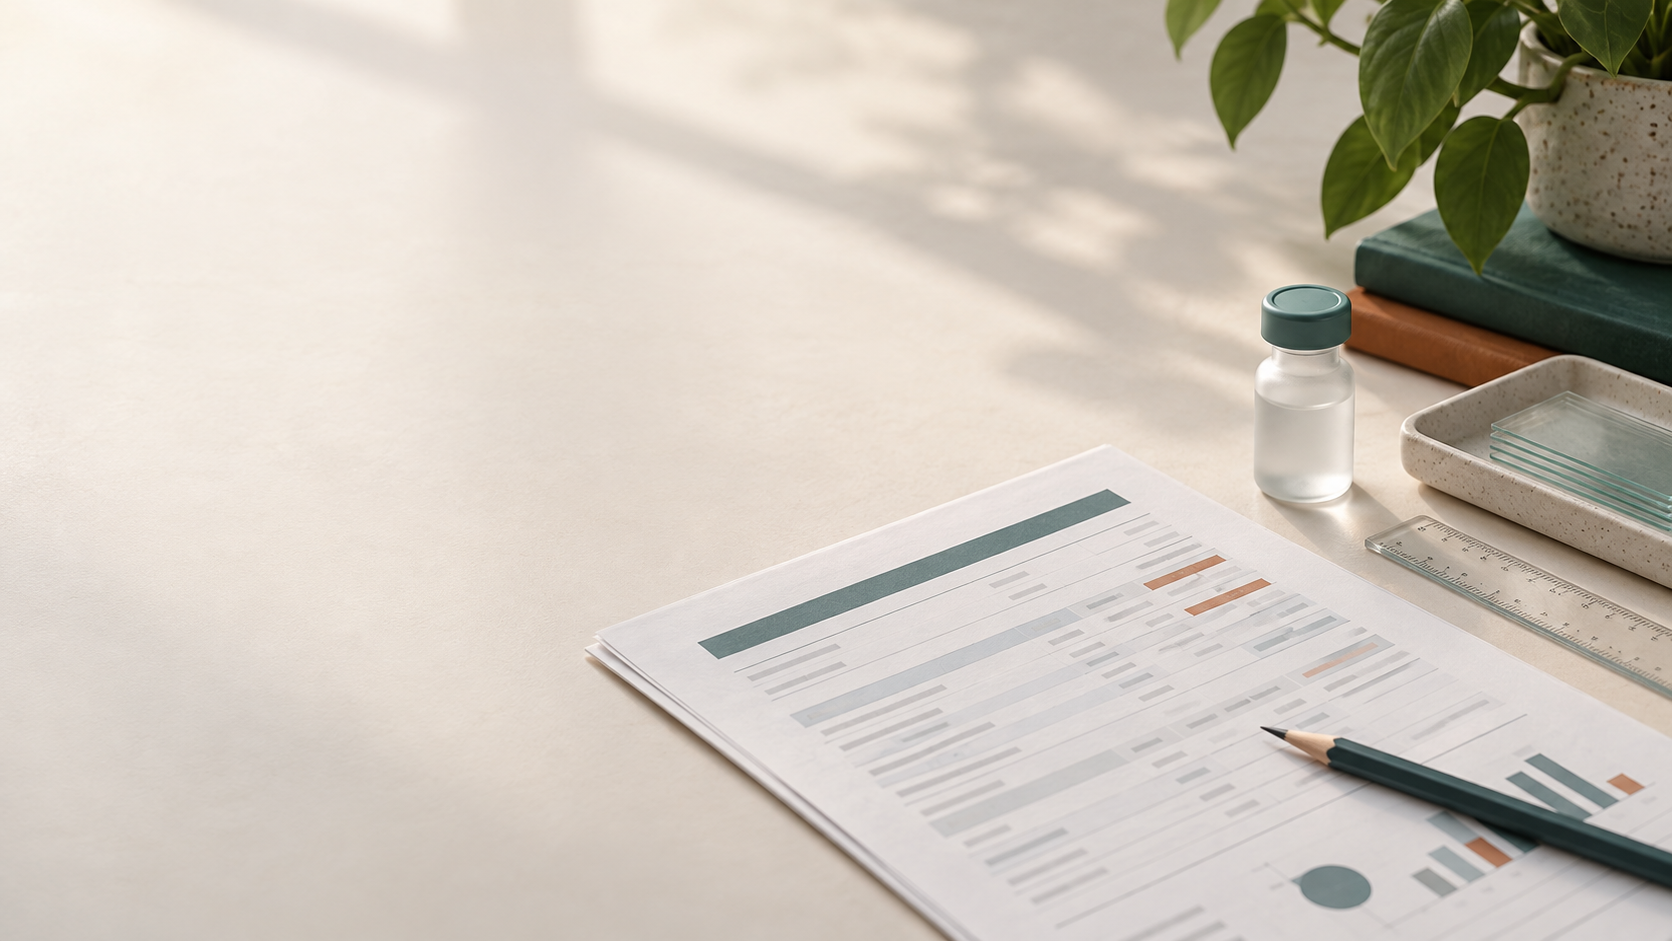
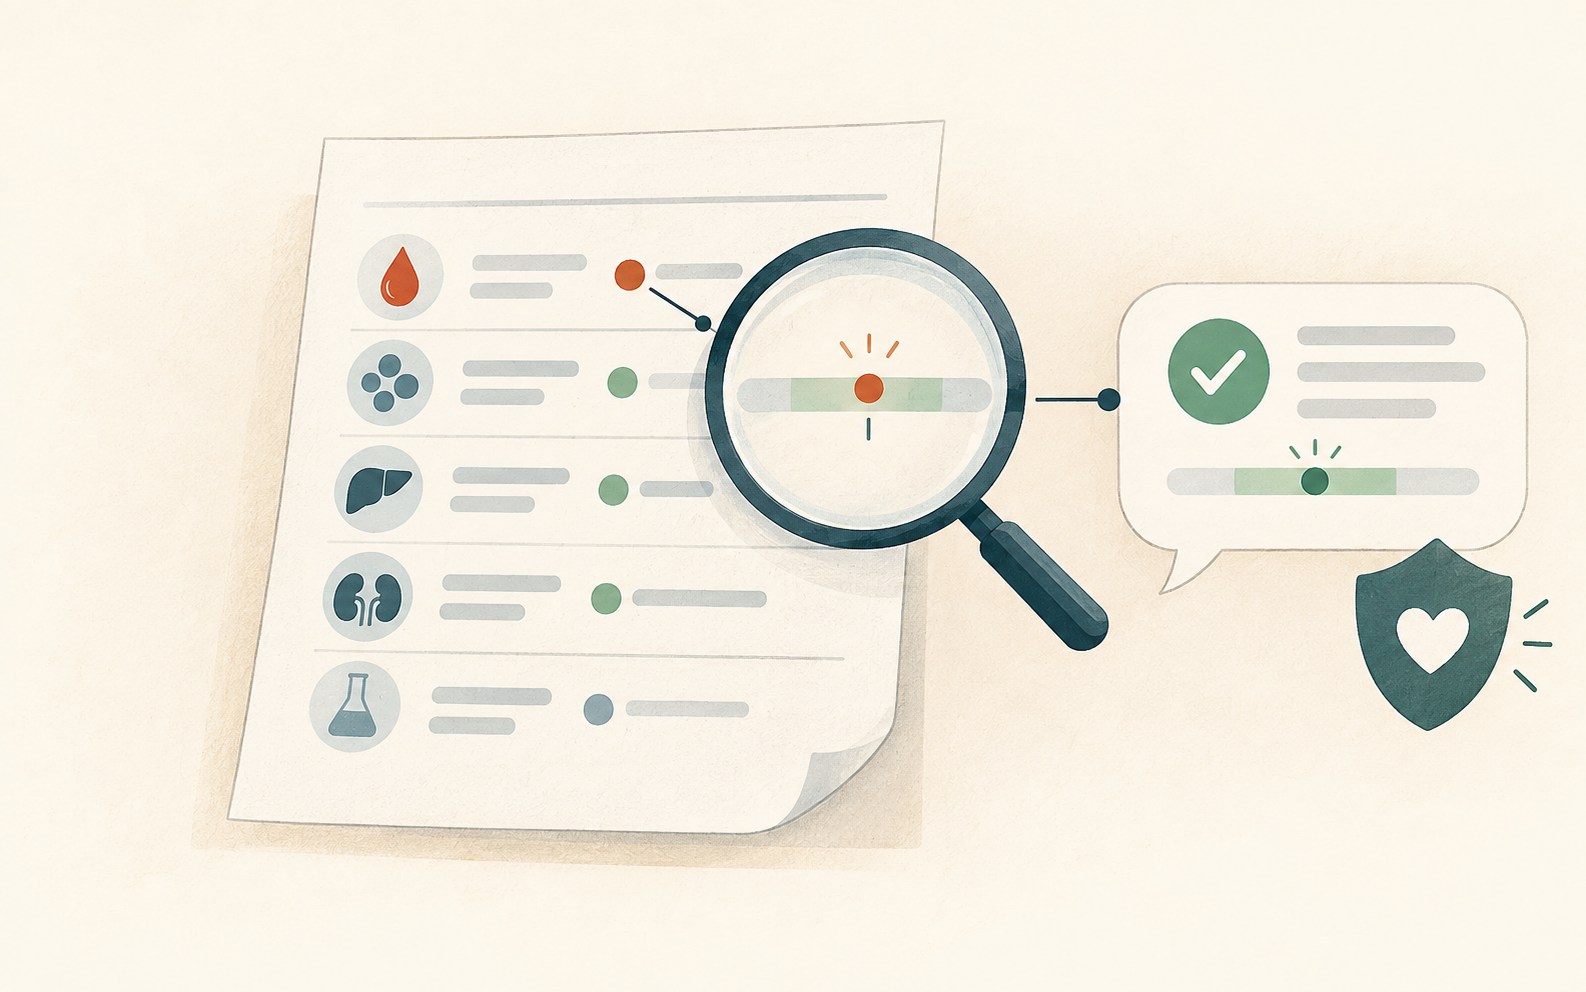
Clarify LabLens visual flow

diff --git a/ui/theme.py b/ui/theme.py
@@ -186,6 +186,39 @@ hr {{ border-color: {c['line']}; margin: 1.4rem 0; }}
     padding: .22rem .6rem; border-radius: 4px;
 }}
 
+.ll-flow-divider {{
+    display: flex; align-items: center; gap: .7rem;
+    margin: 1.3rem 0 .1rem; color: {c['muted']};
+}}
+.ll-flow-label, .ll-flow-copy {{
+    font-size: .7rem; font-weight: 700; letter-spacing: .08em; white-space: nowrap;
+}}
+.ll-flow-label {{ color: {c['brand']}; text-transform: uppercase; }}
+.ll-flow-copy {{ color: {c['muted']}; letter-spacing: .04em; }}
+.ll-flow-track {{
+    position: relative; display: block; flex: 1; height: 1px;
+    background: {c['line']}; overflow: hidden;
+}}
+.ll-flow-track::after {{
+    content: ""; position: absolute; inset: 0; width: 26%;
+    background: linear-gradient(90deg, transparent, {c['brand_line']}, transparent);
+    animation: ll-flow-sweep 3.4s ease-in-out infinite;
+}}
+.ll-flow-dot {{
+    position: absolute; z-index: 1; top: -3px; left: 0; width: 7px; height: 7px;
+    border-radius: 50%; background: {c['brand']};
+    box-shadow: 0 0 0 3px {c['brand_soft']};
+    animation: ll-flow-travel 3.4s ease-in-out infinite;
+}}
+@keyframes ll-flow-sweep {{
+    0% {{ transform: translateX(-120%); }}
+    55%, 100% {{ transform: translateX(390%); }}
+}}
+@keyframes ll-flow-travel {{
+    0% {{ left: 0; }}
+    100% {{ left: calc(100% - 7px); }}
+}}
+
 .ll-disclaimer {{
     display: flex; gap: .7rem; align-items: flex-start;
     background: #FFFBEB; border: 1px solid #FDE68A;
@@ -358,6 +391,10 @@ hr {{ border-color: {c['line']}; margin: 1.4rem 0; }}
     .ll-hero {{ padding: 1.15rem 1.25rem; }}
     .ll-principle-grid {{ grid-template-columns: 1fr; }}
     .ll-about-copy {{ padding: 1rem 0 0; }}
+}}
+@media (prefers-reduced-motion: reduce) {{
+    .ll-flow-track::after, .ll-flow-dot {{ animation: none; }}
+    .ll-flow-dot {{ left: calc(50% - 3px); }}
 }}
 </style>
 """

diff --git a/ui/components.py b/ui/components.py
@@ -24,6 +24,7 @@ __all__ = [
     "esc",
     "render",
     "hero",
+    "flow_divider",
     "disclaimer",
     "section",
     "stat_cards",
@@ -83,6 +84,17 @@ def hero(title: str, subtitle: str, chips: Sequence[str] = ()) -> None:
         f'<p class="ll-sub">{esc(subtitle)}</p>'
         f'<div class="ll-chips">{chip_html}</div>'
         f"</div>"
+    )
+
+
+def flow_divider(label: str = "结果 · 依据 · 解释") -> None:
+    """带有轻微方向动画的流程分隔线，用于解释页面的视觉节奏。"""
+    render(
+        '<div class="ll-flow-divider" role="presentation">'
+        f'<span class="ll-flow-label">流程</span>'
+        '<span class="ll-flow-track"><i class="ll-flow-dot"></i></span>'
+        f'<span class="ll-flow-copy">{esc(label)}</span>'
+        '</div>'
     )
 
 

diff --git a/app.py b/app.py
@@ -45,6 +45,7 @@ from ui import (  # noqa: E402
     critical_alert,
     disclaimer,
     empty,
+    flow_divider,
     hero,
     inject_css,
     item_card,
@@ -421,6 +422,7 @@ def render_about_tab(kb: KnowledgeBase, retriever: Retriever) -> None:
             unsafe_allow_html=True,
         )
 
+    flow_divider()
     section("三条设计原则", "把安全边界做成产品的一部分")
     st.markdown(
         """

diff --git a/ui/__init__.py b/ui/__init__.py
@@ -11,6 +11,7 @@ from .components import (
     disclaimer,
     empty,
     flag_badge,
+    flow_divider,
     hero,
     item_card,
     item_table,
@@ -31,6 +32,7 @@ __all__ = [
     "disclaimer",
     "empty",
     "flag_badge",
+    "flow_divider",
     "hero",
     "item_card",
     "item_table",
